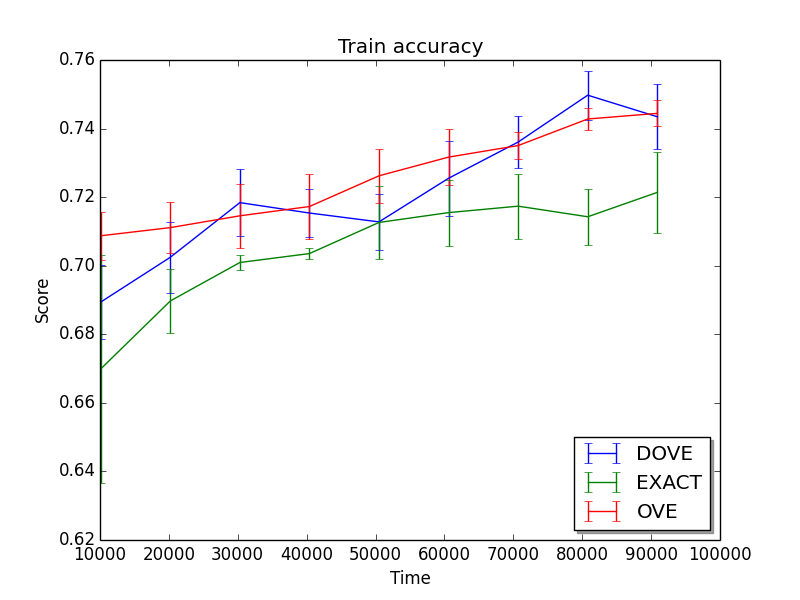
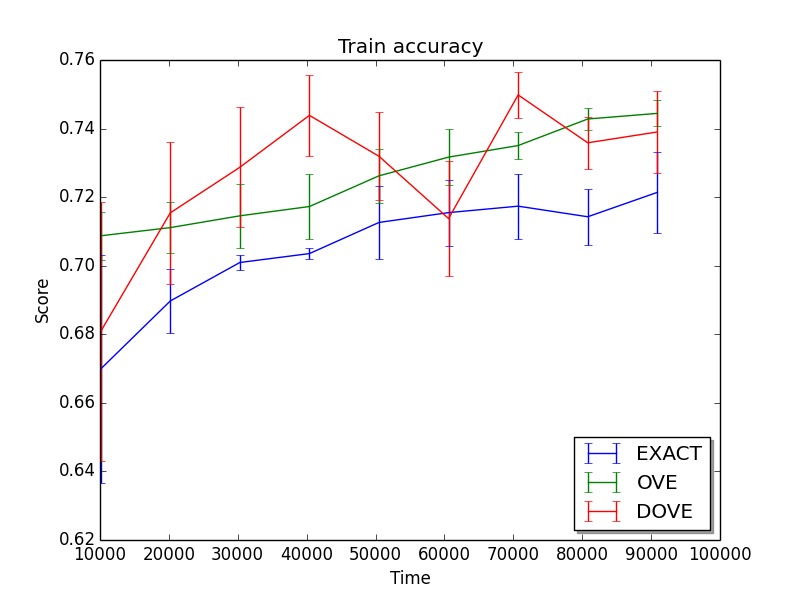
Great results parameter settings

diff --git a/run_expr.py b/run_expr.py
@@ -22,13 +22,13 @@ import os
 def readHyperParameters():
 	data_path = "../UnbiasedSoftmaxData/Simulated/simulated_data_K_100_dim_2_n_datapoints_100000"
 
-	hyper_param = 0
-	repetitions = 5
+	hyper_param = 0.1
+	repetitions = 10
 	time_total = 10**5
 	n_eval_loss = 10
 	NS_n = 5
 	OVE_n = 5
-	p2_scale = 3
+	p2_scale = 1
 
 	return [data_path , hyper_param , repetitions , time_total, n_eval_loss, NS_n, OVE_n, p2_scale]
 	# # Load hyperparameters from the terminal
@@ -90,6 +90,9 @@ class Solver:
 		self.OVE_n = OVE_n
 		self.p2_scale = p2_scale
 
+
+		self.parameter_save_name = "_hyper_%d_rep_%d_time_%d_n_eval_loss_%d_NS_n_%d_OVE_n_%d_p2_scale_%d_"%(hyper_param,repetitions,time_total,n_eval_loss,NS_n,OVE_n,p2_scale)+data_path[data_path.rfind("/")+1:]
+
 		# store results of running methods
 		self.method_test_scores = {}
 		self.method_train_scores = {}
@@ -128,11 +131,13 @@ class Solver:
 			prev_time = 0
 			test_scores_cum_work = []
 			train_scores_cum_work = []
+			iteration = 0
 			while time < self.time_total:
 				data_index = randint(0,self.n_samples_train-1)
 				grad_indices , grad , work = gradient_calculator.calculate_gradient(self.X_train[data_index],self.Y_train[data_index],W)
+				W[grad_indices] += self.hyper_param*np.outer(grad,self.X_train[data_index])*(0.9*(self.time_total-time)/float(self.time_total) +0.1)
 				time += work
-				W[grad_indices] += 0.1*np.outer(grad,self.X_train[data_index])
+				iteration += 1
 				if (time > (prev_time + float(self.time_total) / self.n_eval_loss)):
 					prev_time = time
 					#print self.tester.test(W)
@@ -144,7 +149,7 @@ class Solver:
 
 	def save_results(self):
 		# Pickle results
-		pickle_name = os.getcwd() + "/Data/Pickled_scores/"+"_".join(self.method_scores.keys())+"_"+self.data_path[self.data_path.rfind("/")+1:]+".p"
+		pickle_name = os.getcwd() + "/Data/Pickled_scores/"+"_".join(self.method_scores.keys())+self.parameter_save_name+".p"
 		with open(pickle_name, 'wb') as f:
 			pickle.dump(self.method_scores, f)
 
@@ -165,20 +170,22 @@ class Solver:
 		times = [score_time[1] for score_time in method_scores['EXACT'][0]]
 		inter_time = (times[1] - times[0])*0.9 # Window around time periods. Multiplied by 0.9 so times[i+1] and times[i] do not overlap
 		fig, ax = plt.subplots()
-		for method , rep_scores_cum_work in method_scores.iteritems():
-			flattened_score_times = [score_time for rep in rep_scores_cum_work for score_time in rep]
-			flattened_score_times.sort(key = lambda x: x[1]) # So that they are ordered in increasing times
-			scores_times = [[score_time[0] for score_time in flattened_score_times if abs(score_time[1]-time)<=inter_time] for time in times]
-			scores_time_mean = [np.mean(scores_time) for  scores_time in scores_times]
-			scores_time_std = [np.std(scores_time) for  scores_time in scores_times]
-			ax.errorbar(times,scores_time_mean, yerr = scores_time_std, label=method)
+		for method in ['EXACT','OVE','DOVE','NS','DNS']:
+			if method in method_scores.keys():
+				rep_scores_cum_work = method_scores[method]
+				flattened_score_times = [score_time for rep in rep_scores_cum_work for score_time in rep]
+				flattened_score_times.sort(key = lambda x: x[1]) # So that they are ordered in increasing times
+				scores_times = [[score_time[0] for score_time in flattened_score_times if abs(score_time[1]-time)<=inter_time] for time in times]
+				scores_time_mean = [np.mean(scores_time) for  scores_time in scores_times]
+				scores_time_std = [np.std(scores_time) for  scores_time in scores_times]
+				ax.errorbar(times,scores_time_mean, yerr = scores_time_std, label=method)
 
 		legend = ax.legend(loc='lower right', shadow=True)
 
 		plt.xlabel('Time')
 		plt.ylabel('Score')
 		plt.title(test_or_train+' accuracy')
-		plot_save_name = os.getcwd() + "/Data/Plots/"+"_".join(method_scores.keys())+"_"+test_or_train+"_"+self.data_path[self.data_path.rfind("/")+1:]+".png"
+		plot_save_name = os.getcwd() + "/Data/Plots/"+"_".join(method_scores.keys())+"_"+test_or_train+self.parameter_save_name+".png"
 		plt.savefig(plot_save_name)
 		plt.show()
 
@@ -196,7 +203,7 @@ if __name__ == "__main__":
 
 	# Create trainer class to run the Trains in
 	solver = Solver(data_path , hyper_param, repetitions , time_total, n_eval_loss, NS_n, OVE_n, p2_scale)
-	for method in ['EXACT','OVE','DOVE']:#'scikit_learn',,'NS','DNS'
+	for method in ['EXACT','DNS','DOVE','OVE','NS']:#'scikit_learn',
 		solver.fit(method)
 	#solver.save_results()
 	solver.plot_results('Test')

diff --git a/simulate_MNL_data.py b/simulate_MNL_data.py
@@ -3,15 +3,17 @@
 import numpy as np
 from numpy.random import randn, choice
 
+np.random.seed(1)
 # General Hyperparameters
-K = 10**1													# Number of classes
+K = 10**2													# Number of classes
 dim = 2													# Dimension
-n_datapoints = 10**4										# Number of datapoints
+n_datapoints = 10**5										# Number of datapoints
 train_test_split = 0.7									# Fraction that is training data
 print_or_save = "save"#"print"									# Whether to print or save the data
 
 # Simulate data
-W = randn(K,dim)*10										# True W value
+sigma = 1
+W = randn(K,dim)*sigma										# True W value
 X = randn(n_datapoints,dim)								# Covariates, one for each datapoint
 Y = np.zeros((n_datapoints,1))
 for i in xrange(n_datapoints):	
@@ -22,7 +24,7 @@ for i in xrange(n_datapoints):
 X_Y = np.hstack((X,Y))
 
 # Save or print simulated data
-str_header = '../UnbiasedSoftmaxData/Simulated/simulated_data_K_%d_dim_%d_n_datapoints_%d'%(K, dim, n_datapoints)+'_'	# Gives details on parameters for how data simulated
+str_header = '../UnbiasedSoftmaxData/Simulated/simulated_data_K_%d_dim_%d_n_datapoints_%d_sigma_%d'%(K, dim, n_datapoints, sigma)+'_'	# Gives details on parameters for how data simulated
 for data in ["train","test"]:
 	# Set indices for training or testing data
 	data_range = range(int(train_test_split*n_datapoints)) if data == "train" else range(int(train_test_split*n_datapoints), n_datapoints)
